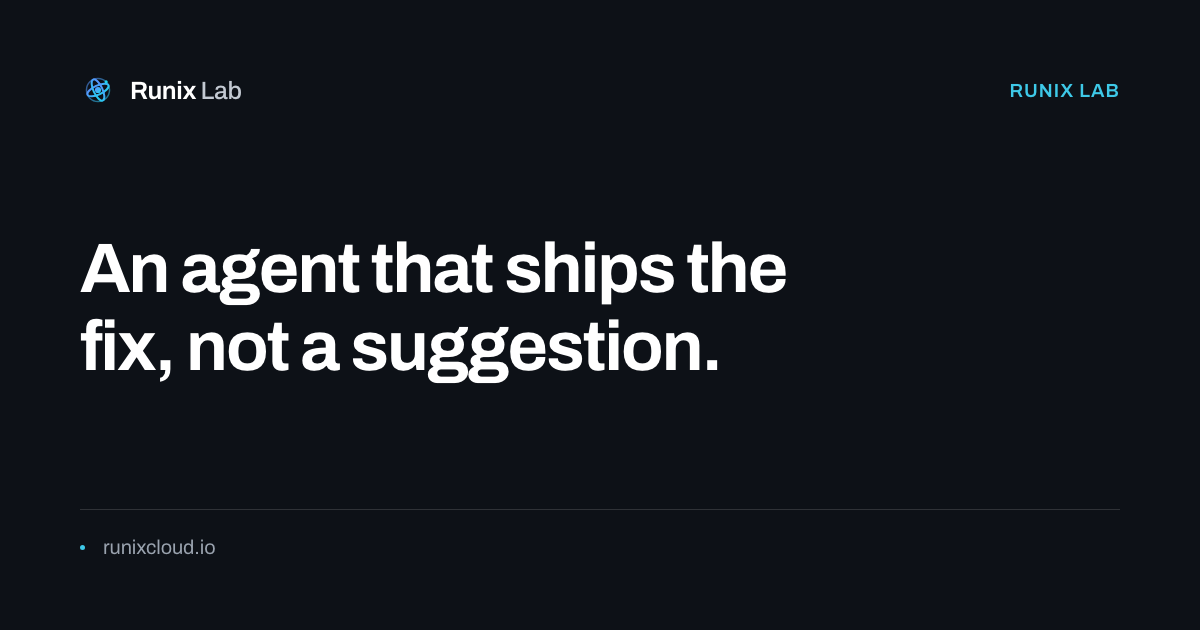
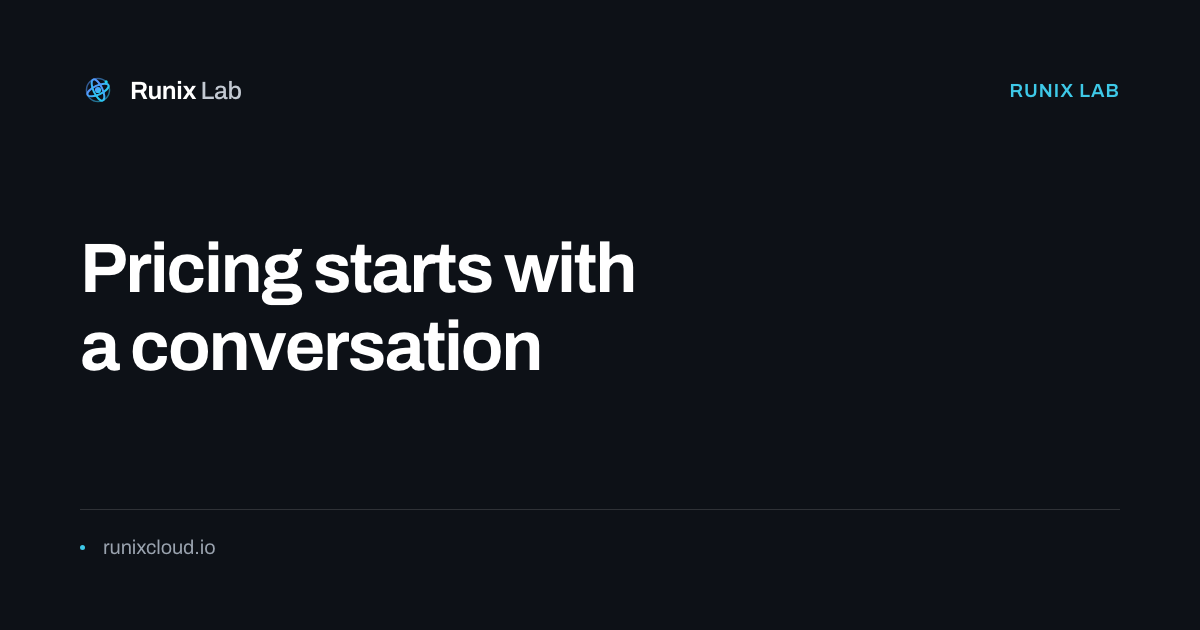
og: cards for the pricing and payment pages

Changed region(s): [[0.0617, 0.3619, 0.6783, 0.4825], [0.0617, 0.4825, 0.6167, 0.6333]]

diff --git a/plans.html b/plans.html
@@ -21,11 +21,11 @@
 <meta property="og:type" content="website">
 <meta property="og:url" content="https://runixcloud.io/plans">
 <meta property="og:site_name" content="Runix Lab">
-<meta property="og:image" content="https://runixcloud.io/assets/og/plans.png?v=357a2a00">
+<meta property="og:image" content="https://runixcloud.io/assets/og/plans.png?v=7bdf5c1f">
 <meta property="og:image:width" content="1200">
 <meta property="og:image:height" content="630">
 <meta name="twitter:card" content="summary_large_image">
-<meta name="twitter:image" content="https://runixcloud.io/assets/og/plans.png?v=357a2a00">
+<meta name="twitter:image" content="https://runixcloud.io/assets/og/plans.png?v=7bdf5c1f">
 <link rel="icon" href="assets/favicon.svg?v=11" type="image/svg+xml">
 <link rel="preload" href="assets/fonts/archivo-latin.woff2?v=2" as="font" type="font/woff2" crossorigin>
 <link rel="stylesheet" href="assets/style.css?v=67">

diff --git a/pay.html b/pay.html
@@ -22,11 +22,11 @@
 <meta property="og:type" content="website">
 <meta property="og:url" content="https://runixcloud.io/pay">
 <meta property="og:site_name" content="Runix Lab">
-<meta property="og:image" content="https://runixcloud.io/assets/og/plans.png?v=357a2a00">
+<meta property="og:image" content="https://runixcloud.io/assets/og/pay.png?v=357a2a00">
 <meta property="og:image:width" content="1200">
 <meta property="og:image:height" content="630">
 <meta name="twitter:card" content="summary_large_image">
-<meta name="twitter:image" content="https://runixcloud.io/assets/og/plans.png?v=357a2a00">
+<meta name="twitter:image" content="https://runixcloud.io/assets/og/pay.png?v=357a2a00">
 <link rel="icon" href="assets/favicon.svg?v=11" type="image/svg+xml">
 <link rel="preload" href="assets/fonts/archivo-latin.woff2?v=2" as="font" type="font/woff2" crossorigin>
 <link rel="stylesheet" href="assets/style.css?v=67">
